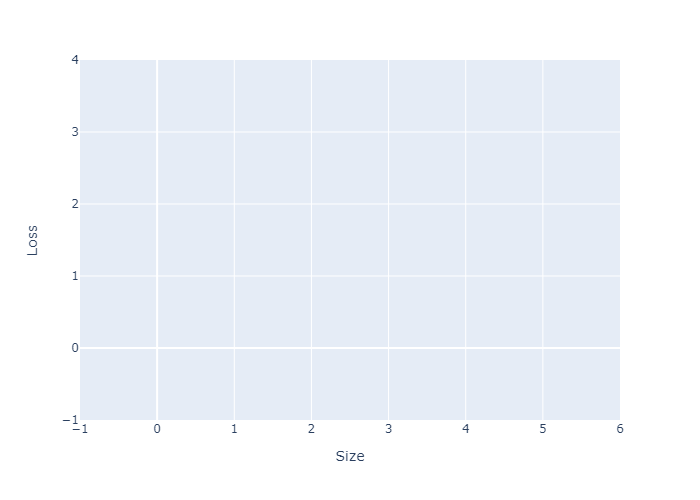
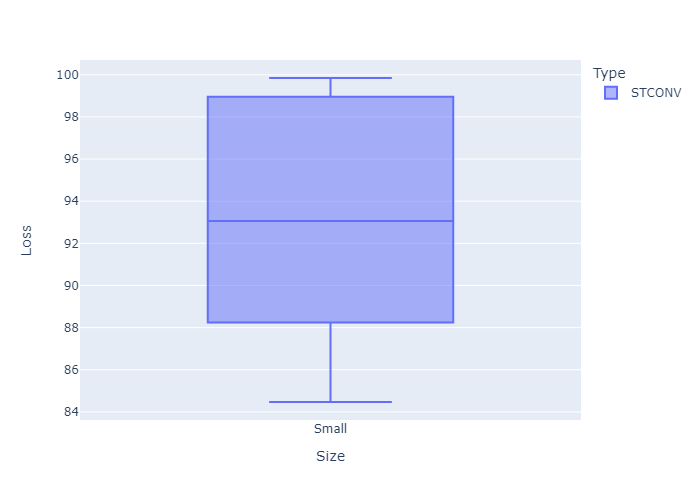
plot changes

diff --git a/Scripts/DataVisualization.py b/Scripts/DataVisualization.py
@@ -267,6 +267,10 @@ class DataViz():
                             datasetName = f"{datasetsize.name}{GenerationType}"
                         else:
                             datasetName = datasetsize.name
+                        if (model == ModelType.LSTM):
+                            modelName = "GCLSTM"
+                        else:
+                            modelName = model.name
                         dfResultsTemp = dfResults[dfResults["Model"]
                                                   == model.name]
                         dfResultsTemp = dfResultsTemp[dfResultsTemp["Size"]
@@ -278,7 +282,7 @@ class DataViz():
                             ["Criterion"]).min().T
                         df = df.append(
                             {
-                                "Model": model.name,
+                                "Model": modelName,
                                 "Size": datasetsize.name,
                                 "Distance": distanceType.name,
                                 "Generation": GenerationType,
@@ -345,12 +349,12 @@ class DataViz():
         dfLSTM = self.dfLSTM
         dfDCRNN = self.dfDCRNN
         dfSTCONV["Type"] = "STCONV"
-        dfLSTM["Type"] = "LSTM"
+        dfLSTM["Type"] = "GCLSTM"
         dfDCRNN["Type"] = "DCRNN"
         df = dfSTCONV.append(dfLSTM, ignore_index=True)
         df = df.append(dfDCRNN, ignore_index=True)
         df = df[df["DistanceType"] == distanceType.name]
-        df = df[df["Loss"] < 100]
+        df = df[df["Loss"] < 20]
         for criterion in LossFunction.Criterions():
             dfTemp = df[df["Criterion"] == criterion.__name__]
             fig = px.box(dfTemp, x="Size", y="Loss", color="Type")
@@ -506,18 +510,18 @@ class DataViz():
 
     def Experiment_Run(self, datareader: DataReader):
 
-        self.TableFinalResults("tableresults.png")
-        self.BoxPlotResults(DistanceType.Geodesic)
+        # self.TableFinalResults("tableresults.png")
+        # self.BoxPlotResults(DistanceType.Geodesic)
         self.BoxPlotResults(DistanceType.OSRM)
-        self.BoxPlotResultsNonGNN(ModelType.LinearRegression)
-        self.BoxPlotResultsNonGNN(ModelType.ARIMA)
-        self.BoxPlotResultsNonGNN(ModelType.SARIMA)
-        self.RegressionLRTruePredicted(datareader)
-        self.HeatMapLoss(ModelType.LinearRegression)
-        self.HeatMapLoss(ModelType.ARIMA)
-        self.HeatMapLoss(ModelType.SARIMA)
-        self.SigmaEpsilonTable("SigmaEpsilonTable.png")
-        self.GNNRegresionTrainLoss()
+        # self.BoxPlotResultsNonGNN(ModelType.LinearRegression)
+        # self.BoxPlotResultsNonGNN(ModelType.ARIMA)
+        # self.BoxPlotResultsNonGNN(ModelType.SARIMA)
+        # self.RegressionLRTruePredicted(datareader)
+        # self.HeatMapLoss(ModelType.LinearRegression)
+        # self.HeatMapLoss(ModelType.ARIMA)
+        # self.HeatMapLoss(ModelType.SARIMA)
+        # self.SigmaEpsilonTable("SigmaEpsilonTable.png")
+        # self.GNNRegresionTrainLoss()
 
     def ReadInfo():
         datareader = DataReader()
@@ -575,5 +579,5 @@ class DataViz():
 
     def Run():
         datareader, dfInfo, dfMeta = DataViz.ReadInfo()
-        DataViz.GeneralViz(datareader,dfInfo,dfMeta)
+        # DataViz.GeneralViz(datareader,dfInfo,dfMeta)
         DataViz.Experiment(datareader, dfInfo, dfMeta)
